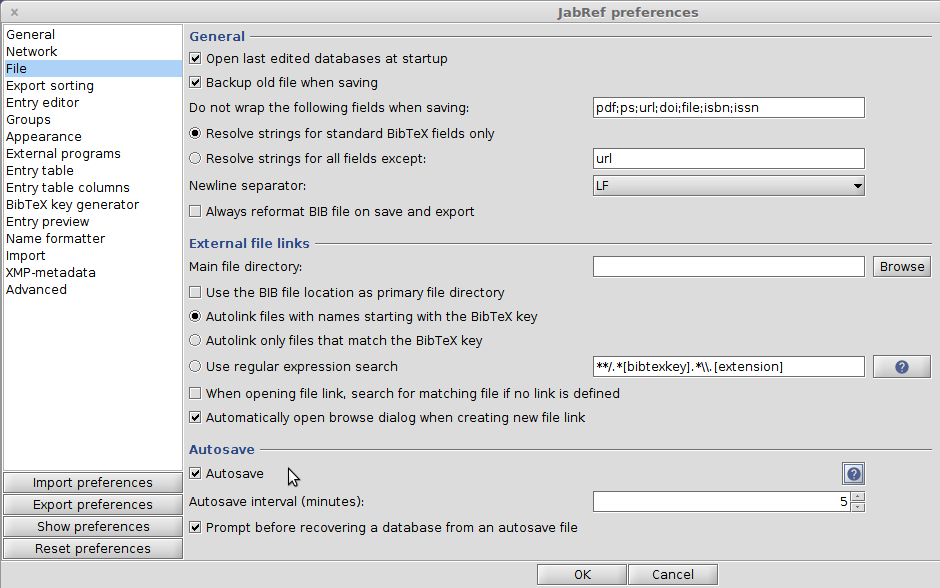
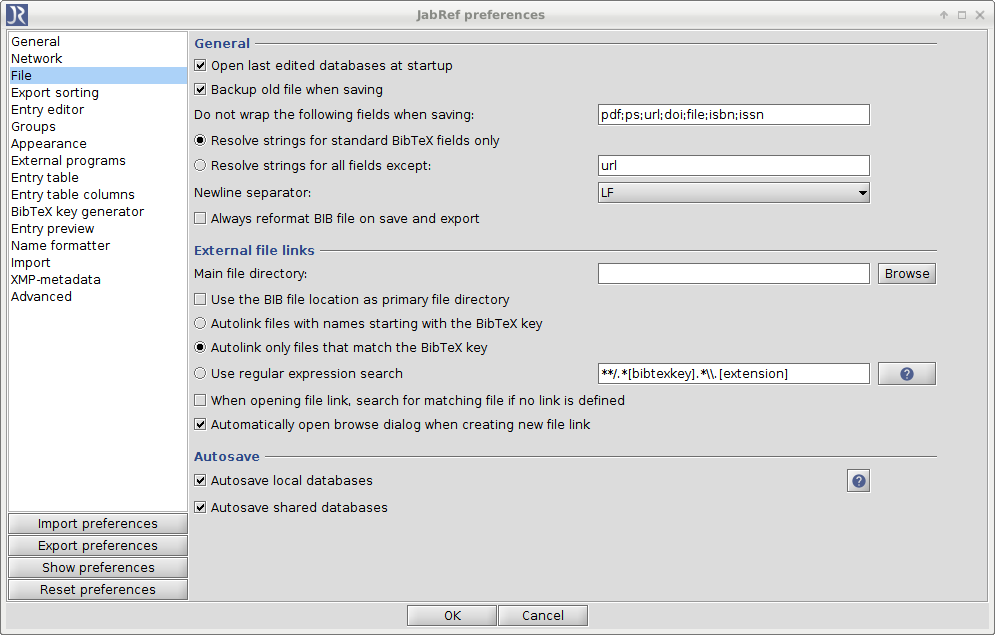
Update autosave help documentation. (#108)

diff --git a/en/Autosave.md b/en/Autosave.md
@@ -7,20 +7,25 @@ helpCategories: ["General"]
 
 ## Purpose
 
-The autosave feature helps prevent loss of data if your computer or JabRef crashes. 
+The autosave feature helps to to save an opened database without manual intervention.
+Furthermore it synchronizes your local files which are associated with appropriate [shared SQL databases](SQLDatabase).
 
-## Configuration
+## Activation
 
 ![Screenshot of the autosave preferences](./images/AutoSave.png)
 
-You can activate and configure the autosave feature through **Options -&gt; Preferences**, and then by choosing **File** on the left panel. At the lower part of a window, a section is dedicated to **AutoSave**.
+You can activate the autosave feature through **Options -&gt; Preferences**, and then by choosing **File** on the left panel. At the lower part of the window, a section is dedicated to **AutoSave**.
 
-First, you can choose to activate autosave (recommended) or not. You can then choose the delay between two autosaves. Finally, you can choose to be prompted if JabRef is using an autosaved file (hence you know something went wrong).
 
-## Functioning
+## Autosave for local databases
 
-When autosave is enabled, JabRef will check regularly (with the configurable time interval) whether any of your databases have been modified since your last save. For each one that has, JabRef will save a copy of the database in the file named `.$[file]$`, where `[file]` is the file name of the database in question. The autosave file lies in the same directory as the bib file.
+If you are working on **.bib** files which are located on your file system, the feature will detect your changes automatically and save them without further intervention.
 
-The autosave file will be deleted whenever you actively save the database, and if you quit JabRef normally. However, if JabRef is shut down due to a crash, the autosave file will remain on disk. In this case, JabRef will detect it the next time you attempt to open the database. JabRef will use the autosaved file to recover the database.
+## Autosave for shared databases
 
-Autosave is enabled by default, with a save interval of 5 minutes. If you prefer, you can disable the option to prompt before using an autosave. In this case, JabRef will quietly recover the database without providing any notifications.
+Generally you are able to save a shared database after connecting to it. This feature enables a full synchronization of your local bib file with the [shared SQL database](SQLDatabase) which could simoultaneously be used by other collaborators.
+
+## Remarks
+
+By default this feature is disabled for local databases.
+It has to be kept apart from the [main backup functionality](Backup) as the backup is running continuously without users influence.

diff --git a/en/Backup.md b/en/Backup.md
@@ -1,0 +1,30 @@
+---
+title: Backup
+helpCategories: ["General"]
+---
+
+# Backup
+
+## Purpose
+
+This module is always running in the background while you are working on a _BibTeX database_. It makes a _backup copy_ 
+and keeps that up-to-date on every user interaction.
+
+_E.g., When you change a field the new value would get saved into the backup copy._
+ 
+Assumed that _JabRef_ crashes while you are working on a _BibTeX database_. When you try again to open the file _JabRef_ crashed with
+you will get the following dialog:
+
+![Screenshot of the backup dialog](./images/backup_found.png)
+
+Now you have the possibility to restore your changes which would normally get lost.
+
+## Remarks
+
+By default this feature is enabled and it is running continuously without users influence.
+
+## Offstage
+
+While opening a _.bib_ file _JabRef_ simoultaneously creates a _.swp_ file which is used as a current buffer.
+If _JabRef_ gets closed normally the _.swp_ file will be removed. Otherwise this file is going to be used for
+database restoration next time.
